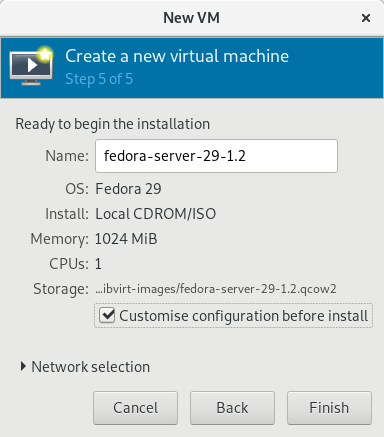
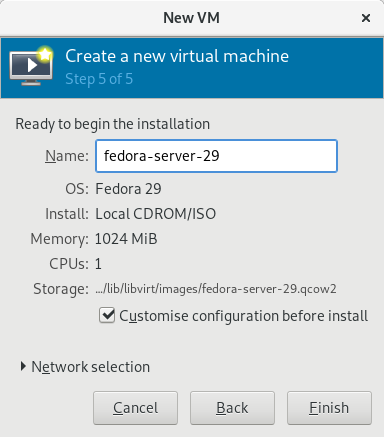
Finishing the main part; just needs the afterword.

diff --git a/_drafts/creating-a-vagrant-base-box.md b/_drafts/creating-a-vagrant-base-box.md
@@ -4,10 +4,10 @@ tags: [virtualization, vm, vagrant, libvirt, qemu, kvm, fedora]
 caption: "Wayfarers Looking at the Statue of Jizo Bosatsu in a Pine Grove at Hashiba (ca. 1840) by Utagawa Kuniyoshi"
 ---
 
-Virtual machines are nice for playing around with different operating systems[^linux], software setups and network configurations. But they are a pain to install and after using them for some time it's hard to remember all the steps that were necessary to get the machine to behave in desirable way. This lack of reproducibility isn't very *scientific*! Wouldn't it be nice to have some kind of specification – human readable, but also executable – for quickly creating VMs in a matter of seconds?
-This is something [Vagrant](https://www.vagrantup.com/) promises to do (in combination with some other tool for provisioning like [Ansible](https://www.ansible.com/)).
+Virtual machines are nice for playing around with different operating[^linux] systems, software setups and network configurations. But they are a pain to install and after using them for some time it's hard to remember all the steps that were necessary to get the machine to its current state. This lack of reproducibility isn't very *scientific*! Wouldn't it be nice to have some kind of specification – human readable, but also executable – for quickly creating VMs in a matter of seconds?
+This is something [Vagrant](https://www.vagrantup.com/) promises to do (in combination with some tool for provisioning like [Ansible](https://www.ansible.com/)).
 
-[^linux]: i.e. Linux distributions; how could I ever bear using Windows if it wasn't absolutely necessary?
+[^linux]: Personally, I prefer different Linux distributions. Wouldn't want to use Windows if it isn't absolutely necessary.
 
 There's also [a large number of base images available](https://app.vagrantup.com/boxes/search) so getting started just takes three commands. So far so good! Now, I've got some extravagant expectations:
 
@@ -25,20 +25,47 @@ There's also [a large number of base images available](https://app.vagrantup.com
 
 ## Step 1: Create the VM and install Fedora
 
-Because I'm lazy I'm using the [`virt-manager`](https://virt-manager.org/) GUI to quickly create a VM from the [Fedora Server Net-Install ISO](https://getfedora.org/en/server/download/).
+I'll be mainly using the [`virt-manager`](https://virt-manager.org/) GUI because I'm lazy. But wait! This will do some kind of metadata preallocation when creating the VM image, resulting in a really large file on the host system.[^preallocation] There's no way to change this from the GUI so we first need to create the storage using the command line. Let's take a look at `man qemu-img`:
+
+[^preallocation]: Actually, it's a bit more complicated. With metadata preallocation the image files won't actually use up the disk space but when reading the file attributes (with e.g. `ls -l`) the maximum size is displayed.
+
+> "preallocation"
+>
+> Preallocation mode (allowed values: "off", "metadata", "falloc", "full"). An image with preallocated metadata is initially larger but can improve performance when the image needs to grow.
+
+Okay, we just need to create an image with preallocation turned off:
+
+```
+$ qemu-img create -f qcow2 -o preallocation=off fedora-server-29.qcow2 20G
+Formatting 'fedora-server-29.qcow2', fmt=qcow2 size=21474836480 cluster_size=65536 preallocation=off lazy_refcounts=off refcount_bits=16
+$ ls -gGh fedora-server-29.qcow2
+-rw-r--r-- 1 193K Feb 11 21:21 fedora-server-29.qcow2
+```
+
+Just 193 kB! Nice. Now we can download the [Fedora Server Net-Install ISO](https://getfedora.org/en/server/download/) and click together our virtual machine with `virt-manager`. 
 
 <figure>
-    <img src="{{ site.baseurl }}/assets/{{ page.slug }}/1-2-iso-selection.png" alt="Step 2: Selecting the ISO Image">
+    <img src="{{ site.baseurl }}/assets/{{ page.slug }}/1-1-importiso.png" alt="Step 2: Using an ISO image">
+    <img src="{{ site.baseurl }}/assets/{{ page.slug }}/1-2-iso-selection.png" alt="Step 3: Selecting the ISO Image">
+    <figcaption>Select the ISO disk image you got from <a href="https://getfedora.org/">getfedora.org</a>.</figcaption>
 </figure>
 
 When creating the VM, let's mostly follow [Vagrant's advice](https://www.vagrantup.com/docs/boxes/base.html#memory):
 
 > Like disk space, finding the right balance of the default amount of memory is important. For most providers, the user can modify the memory with the Vagrantfile, so do not use too much by default. It would be a poor user experience (and mildly shocking) if a vagrant up from a base box instantly required many gigabytes of RAM. Instead, choose a value such as **512MB**, which is usually enough to play around and do interesting things with a Vagrant machine, but can easily be increased when needed.
 
-Since Fedora is kinda bloated better choose **1024 MB** for RAM. With lower values the installation crashed for me. [This corresponds with Fedora's official minimum requirements, too.](https://docs.fedoraproject.org/en-US/fedora/f29/release-notes/welcome/Hardware_Overview/#hardware_overview-specs)
+Since Fedora is kinda bloated, better choose **1024 MB** for RAM. With lower values the installation crashed for me. [This corresponds with Fedora's official minimum requirements, too.](https://docs.fedoraproject.org/en-US/fedora/f29/release-notes/welcome/Hardware_Overview/#hardware_overview-specs)
 
 <figure>
     <img src="{{ site.baseurl }}/assets/{{ page.slug }}/1-3-ram.png" alt="Step 3: Selecting initial RAM and CPUs">
+    <figcaption>For Fedora, you need 1024 MB RAM at minimum.</figcaption>
+</figure>
+
+Use the `qcow2` storage file you created above.
+
+<figure>
+    <img src="{{ site.baseurl }}/assets/{{ page.slug }}/1-4-storage.png" alt="Step 4: Select the storage image">
+    <figcaption>Select the formerly created storage image.</figcaption>
 </figure>
 
 > Disable any non-necessary hardware in a base box such as audio and USB controllers. These are generally unnecessary for Vagrant usage and, again, can be easily added via the Vagrantfile in most cases.
@@ -50,7 +77,7 @@ This is optional since you can also do this later.
     <figcaption>Check “Customize configuration before install” to configure/remove hardware.</figcaption>
 </figure>
 
-Next, start up the VM and step through the installation process. This is straightforward for Fedora since everything is GUI-based. We're not installing Arch or Gentoo, after all. As for all the settings (user name, password, root password) I just put "vagrant" everywhere.
+Next, start up the VM and step through the installation process. This is straightforward for Fedora since everything is GUI-based. We're not installing Arch or Gentoo, after all. As for all the settings (user name, password, root password) just put "vagrant" everywhere.
 
 <figure>
     <img src="{{ site.baseurl }}/assets/{{ page.slug }}/1-useradd.png" alt="Adding the “vagrant” user">
@@ -131,7 +158,7 @@ For creating the Vagrant box itself let's look at [the documentation of the Vagr
     <figcaption>Seems perfectly reliable.</figcaption>
 </figure>
 
-At the bottom of the README there's a section about [Creating a Box](https://github.com/vagrant-libvirt/vagrant-libvirt#create-box). Apparently, there is a helper script `create_box.sh` in the repository. Let's move to the folder holding or `qcow2` image and call this script.
+At the bottom of the README there's a section about [Creating a Box](https://github.com/vagrant-libvirt/vagrant-libvirt#create-box). Apparently, there is a helper script `create_box.sh` in the repository which simply creates a default `Vagrantfile` and a short `metadata.json` and packs them together with the VM image. Easy, isn't it? Move to the folder holding the `qcow2` image and call the script.
 
 ```
 $ wget https://raw.githubusercontent.com/vagrant-libvirt/vagrant-libvirt/master/tools/create_box.sh
@@ -139,34 +166,52 @@ $ ./create_box.sh
 Usage: ./create_box.sh IMAGE [BOX] [Vagrantfile.add]
 
 Package a qcow2 image into a vagrant-libvirt reusable box
-$ ./create_box.sh fedora-server-29-1.2.qcow2
+$ ./create_box.sh fedora-server-29.qcow2
+{20}
 ==> Creating box, tarring and gzipping
 ./metadata.json
 ./Vagrantfile
 ./box.img
-Total bytes written: 2491525120 (2.4GiB, 33MiB/s)
-==> fedora-server-29-1.2.box created
+Total bytes written: 2438277120 (2.3GiB, 32MiB/s)
+==> fedora-server-29.box created
 ==> You can now add the box:
-==>   'vagrant box add fedora-server-29-1.2.box --name fedora-server-29-1.2'
+==>   'vagrant box add fedora-server-29.box --name fedora-server-29'
 ```
 
-Ta-da! Your newly created `fedora-server-29-1.2.box` is ready! Let's try it out!
+Ta-da! Your newly created `fedora-server-29.box` is ready! Let's try it out!
 
 Create a new folder somewhere, add and start your box:
 
 ```
-$ vagrant box add fedora/29-server /var/lib/libvirt/images/fedora-server-29-1.2.box
+$ vagrant box add leyhline/fedora-server-29 fedora-server-29.box
 ==> box: Box file was not detected as metadata. Adding it directly...
-==> box: Adding box 'fedora/29-server' (v0) for provider: 
-    box: Unpacking necessary files from: file:///home/leyht/Projekte/libvirt-images/fedora-server-29-1.2.box
-==> box: Successfully added box 'fedora/29-server' (v0) for 'libvirt'!
-$ vagrant init fedora/29-server
+==> box: Adding box 'leyhline/fedora-server-29' (v0) for provider:
+==> box: Successfully added box 'leyhline/fedora-server-29' (v0) for 'libvirt'!
+$ vagrant init leyhline/fedora-server-29
 $ vagrant up
 ...
 $ vagrant ssh
+$ echo Hello, $USER!
+Hello, vagrant!
 ```
 
 <figure>
     <img src="{{ site.baseurl }}/assets/{{ page.slug }}/virt-manager-overview.png" alt="Vagrant Box in virt-manager">
     <figcaption>We can also see libvirt Vagrant boxes in virt-manager.</figcaption>
 </figure>
+
+### Side Node: Synced folders with NFS
+
+By default, Vagrant will share the current directory with the guest VM using NFS (Network File System). But if you're running a firewall this will most likely fail. Now, we've got three options:
+
+1. Adjusting the firewall: There is some information on the [Fedora Developer Portal](https://developer.fedoraproject.org/tools/vagrant/vagrant-nfs.html) on adding rules with `firewall-cmd`.
+2. Using a different protocol: Instead of NFS, you can also [use VirtFS or rsync](https://github.com/vagrant-libvirt/vagrant-libvirt#synced-folders).
+3. Disabling synced folders altogether: This is my choice since I don't need synced folders by default. Just add the corresponding option to your `Vagrantfile`:
+
+```
+config.vm.synced_folder ".", "/vagrant", disabled: true
+```
+
+I copied this line directly [from Vagrant's configuration](https://www.vagrantup.com/docs/synced-folders/basic_usage.html#disabling).
+
+## Afterword:
